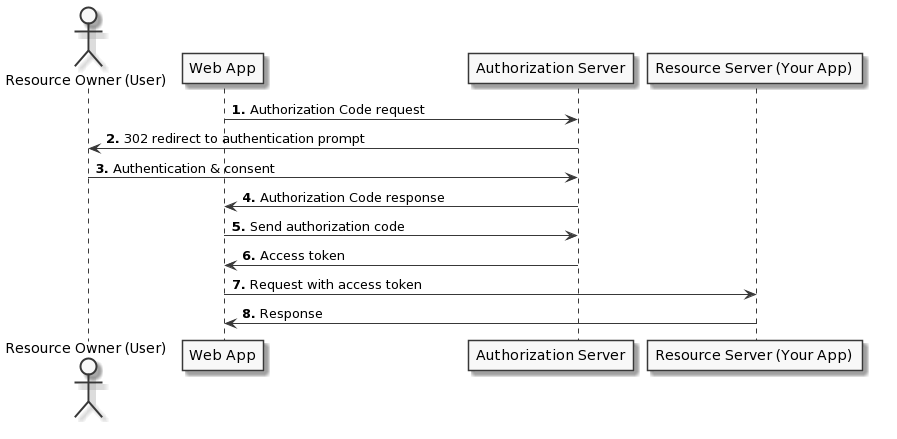
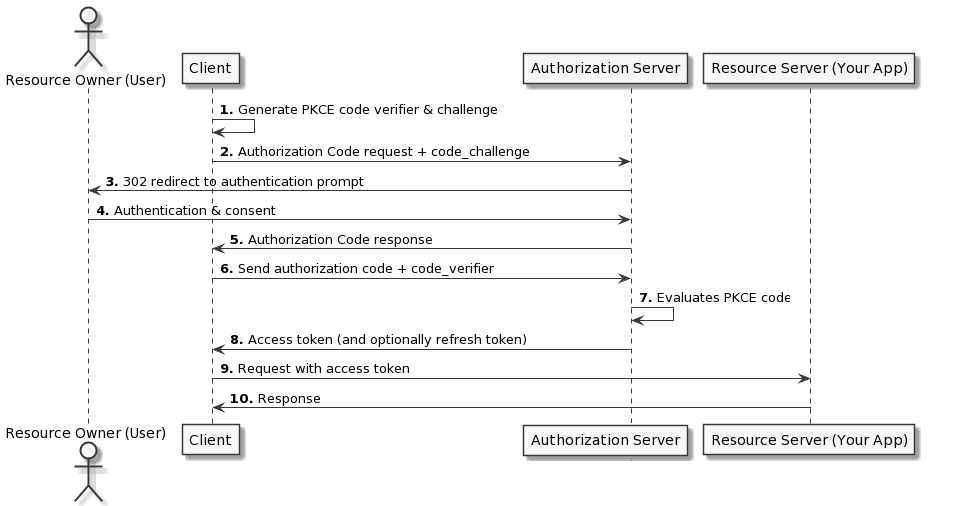
better steps

Changed region(s): [[0.0, 0.0, 0.9677, 1.0], [0.8116, 0.6515, 0.8428, 0.6811]]

diff --git a/docs/software-catalog/widgets/embedded-url/authentication.md b/docs/software-catalog/widgets/embedded-url/authentication.md
@@ -5,14 +5,16 @@ To do this, you'll need the required parameters to create a JWT token.
 
 ## Authentication Code flow + PKCE
 
-preceding: The widget will generate a PKCE. (`code_challnage` & `code_verifier`)
-
-1. The widget URL is set to the `authorizationUrl` along with the `clientId` and the generated `code_challange`.
-2. The widget will then be redirected to the SSO sign-in page.
-3. The user will sign in using the SSO. (If the user is already signed in to the SSO, this step will happen automatically)
-4. The SSO sign-in page will redirect the widget back to https://app.getport.io with the authorization code as a URL hash parameter.
-5. The widget will send the `code`, `clientId` and the `code_verifier` to the `tokenURL`, and retrieve the access token from the response.
-6. The widget will pass the access token as a query parameter `auth_token={accessToken}` to the URL specified in the property value.
+1. The widget will generate a PKCE `code_verifier` & `code_challange`
+2. The widget URL is set to the `authorizationUrl` along with the `clientId` and the generated `code_challange`.
+3. The widget will then be redirected to the SSO sign-in page.
+4. The user will sign in using the SSO. (If the user is already signed in to the SSO, this step will happen automatically)
+5. The SSO sign-in page will redirect the widget back to https://app.getport.io with the authorization `code` as a URL hash parameter.
+6. The widget will send the `code`, `clientId` and the `code_verifier` to the `tokenURL`.
+7. The SSO will validate the PKCE code.
+8. A response will come back with an access token.
+9. The widget will pass the access token as a query parameter `auth_token={accessToken}` to the URL specified in the property value.
+10. Your page should be displayed now!
 
 ![AuthorizationCodeFlow.png](../../../../static/img/software-catalog/widgets/embedded-url/AuthorizationCodeFlow.png)
 
